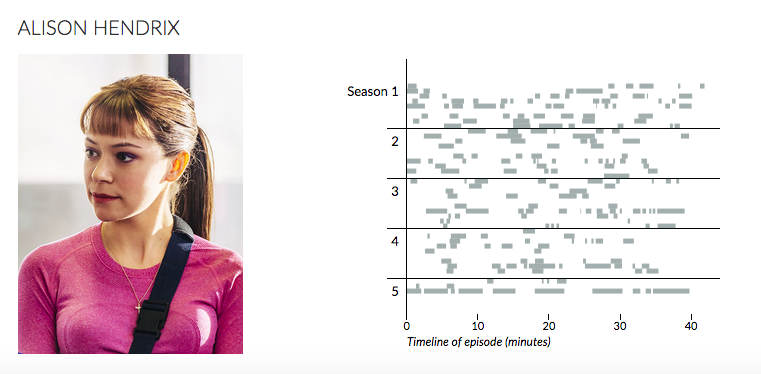
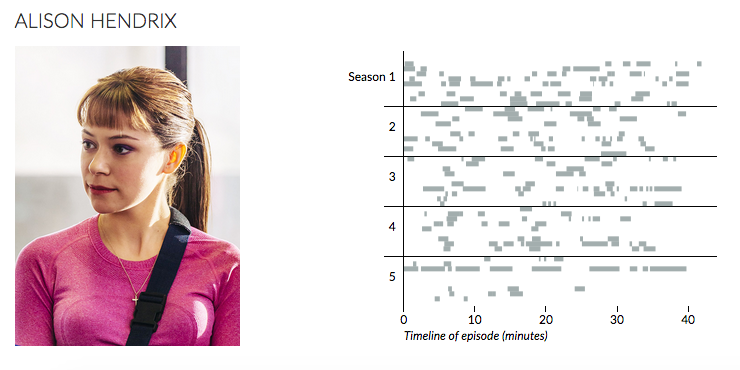
episodes 48 and 49 😭

diff --git a/index.html b/index.html
@@ -13,13 +13,13 @@
     <meta name="twitter:site" content="@hannah_recht">
     <meta name="twitter:creator" content="@hannah_recht">
     <meta name="twitter:title" content="Analyzing Orphan Black">
-    <meta name="twitter:description" content="There have been 43 episodes and 1,779 minutes of Orphan Black, featuring 1,722 minutes of Tatiana Maslanys.">
+    <meta name="twitter:description" content="There have been 49 episodes and 2,019 minutes of Orphan Black, featuring 1,921 minutes of Tatiana Maslanys.">
     <meta name="twitter:image" content="http://hrecht.github.io/orphanblack-update/img/social.png">
 
     <meta property="og:url" content="http://hrecht.github.io/orphanblack-update/" />
     <meta property="og:type" content="website" />
     <meta property="og:title" content="Analyzing Orphan Black" />
-    <meta property="og:description" content="There have been 43 episodes and 1,779 minutes of Orphan Black, featuring 1,722 minutes of Tatiana Maslanys." />
+    <meta property="og:description" content="There have been 49 episodes and 2,019 minutes of Orphan Black, featuring 1,921 minutes of Tatiana Maslanys." />
     <meta property="og:image" content="http://hrecht.github.io/orphanblack-update/img/social.png" />
 
     <title>Orphan Black clone tracker</title>
@@ -77,9 +77,7 @@
 
             <p>As of August, 2017:</p>
             <div id="mainnumbers">There have been
-                <div class="blocknum" id="toteps"></div> and
-                <div class="blocknum" id="totmin"></div> of Orphan Black,</br>featuring
-                <div class="blocknum" id="tottmas"></div> of Tatiana Maslanys.
+                <div class="blocknum" id="toteps"></div>&nbsp;episodes and&nbsp;<div class="blocknum" id="totmin"></div>&nbsp;<div class="epmin blocklegend">minutes of Orphan Black</div>,</br>featuring&nbsp;<div class="blocknum" id="tottmas"></div>&nbsp;<div class="tmasmin blocklegend">minutes of Tatiana Maslanys</div>.
             </div>
             <div id="linechart" alt="[Linechart showing number of minutes in episode and number of minutes of Tatiana Maslany screen time, by episode]"><!--img class="fallback" src="img/fallback-linechart.png" alt="[Linechart showing number of minutes in episode and number of minutes of Tatiana Maslany screen time, by episode]"--></div>
 

diff --git a/js/main.js b/js/main.js
@@ -35,9 +35,9 @@ function datatext() {
         return d.tmasmin;
     });
 
-    d3.select("#toteps").html(eps + " episodes");
-    d3.select("#totmin").html(formatNum(totmin) + " minutes");
-    d3.select("#tottmas").html(formatNum(tottmas) + " minutes");
+    d3.select("#toteps").html(eps);
+    d3.select("#totmin").html(formatNum(totmin));
+    d3.select("#tottmas").html(formatNum(tottmas));
 
     //individual character tables
     for (var i = 0; i < CHARACTERS.length; i++) {
@@ -566,6 +566,13 @@ function linechart() {
         .attr("class", "chartline")
         .attr("d", line);
 
+    //need to manually add last line segment
+    svg.append("line")
+        .attr("x1", x(49))
+        .attr("x2", x(49) + x.rangeBand())
+        .attr("y1", y(40.1))
+        .attr("y2", y(40.1))
+        .attr("class", "chartline");
 }
 
 function ganttcharacters() {

diff --git a/css/main.css b/css/main.css
@@ -43,6 +43,10 @@ img.fallback {
     display: inline-block;
 }
 
+.blocklegend {
+    display: inline-block;
+}
+
 #ganttSarah {
     width: 100%;
 }
@@ -98,11 +102,11 @@ img.headshot {
     text-transform: uppercase;
 }
 
-#totmin {
+.epmin {
     border-bottom: 2px solid #000000;
 }
 
-#tottmas {
+.tmasmin {
     background-color: #55847f;
     color: #ffffff;
 }
